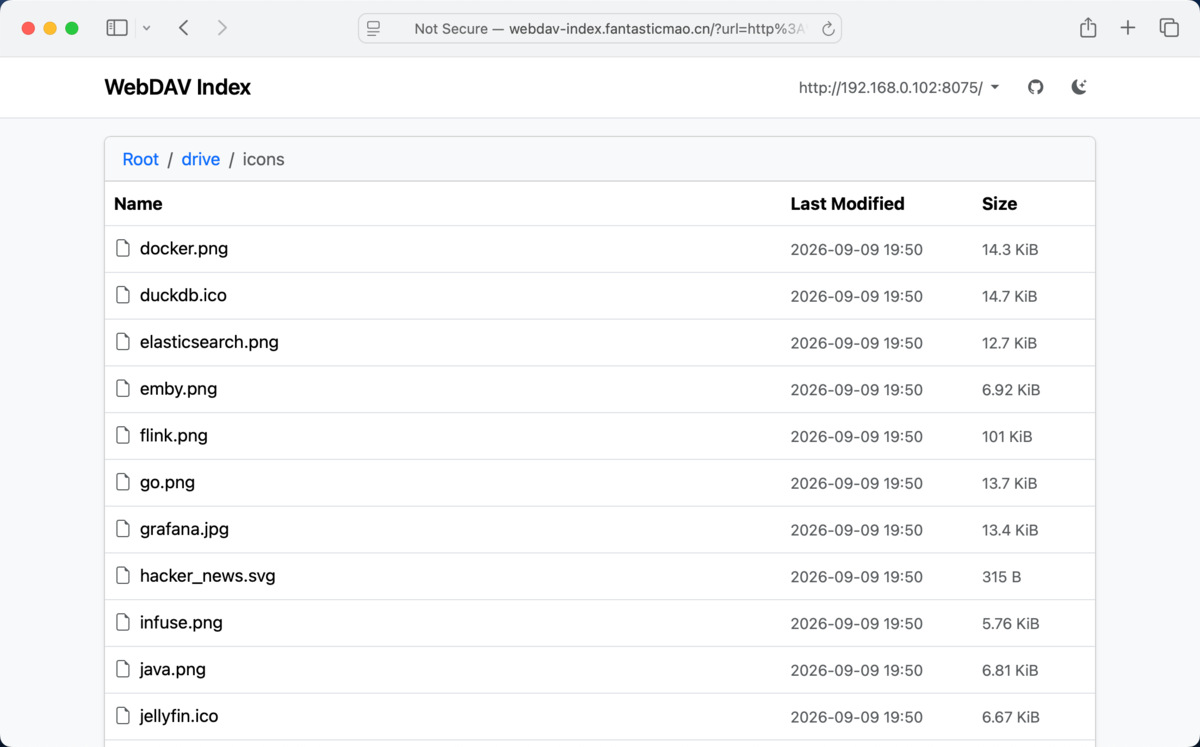
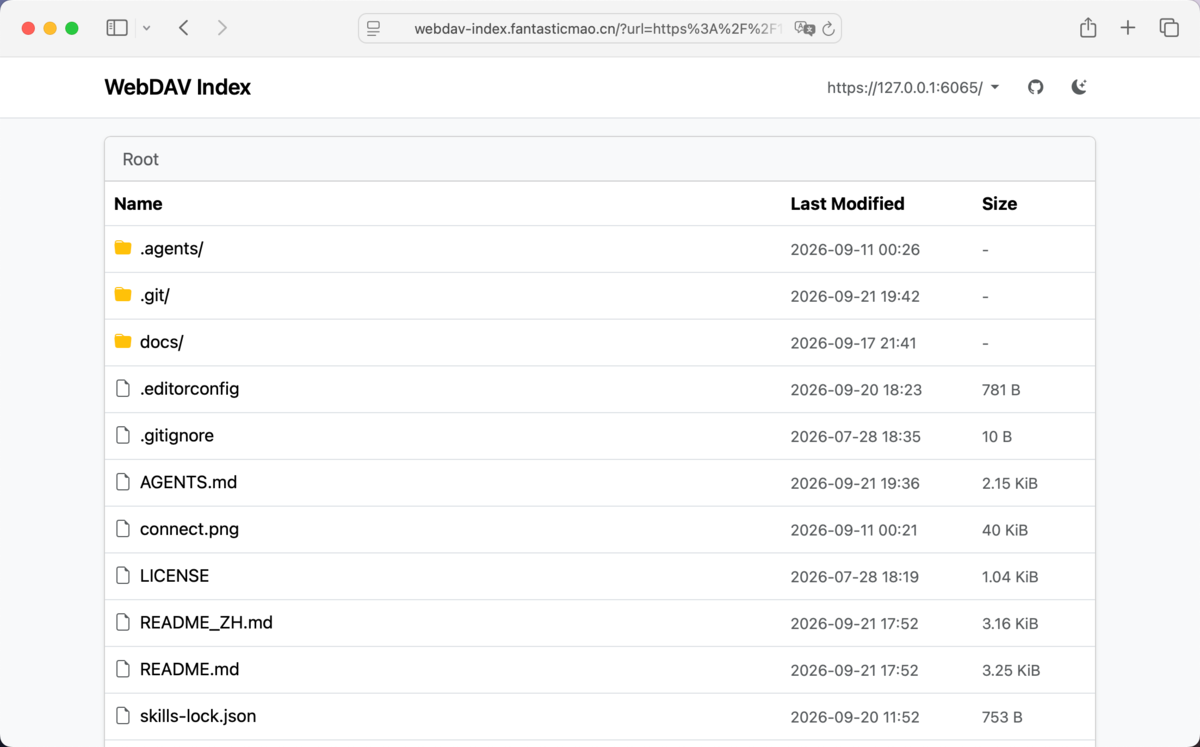
feat: Classify mixed-content and PNA connection failures
TypeError from listing is now tagged MIXED, PNA, or CORS so the
UI and FAQ can name the blocking browser policy.

diff --git a/docs/js/webdav.js b/docs/js/webdav.js
@@ -1,4 +1,5 @@
 import { createClient } from "https://cdn.jsdelivr.net/npm/webdav@5.10.0/dist/web/index.js";
+import { isMixedContentRequest, isPrivateNetworkAccess } from "./config.js";
 
 function normalizeCredentials(credentials) {
   return {
@@ -59,7 +60,7 @@ export async function listDirectory(baseUrl, relativePath, credentials) {
     // server that omits `getcontentlength` (both surface as `size: 0`).
     result = await client.getDirectoryContents(currentPath, { details: true });
   } catch (err) {
-    throw toAppError(err, isAnonymous(creds));
+    throw toAppError(err, isAnonymous(creds), baseUrl);
   }
 
   return result.data
@@ -104,16 +105,14 @@ function compareEntries(a, b) {
 /**
  * Translate client errors into the `code`-tagged errors the app branches on. The client
  * throws `Error` with `status` for HTTP failures, and lets `fetch` rejections
- * (network / CORS) through as `TypeError`.
+ * (network / CORS / mixed content / PNA) through as `TypeError`.
  */
-function toAppError(err, anonymous) {
+function toAppError(err, anonymous, baseUrl) {
   const status = err?.status;
 
-  if (status === 401 || status === 403) {
+  if (status === 401) {
     const error = new Error(
-      anonymous
-        ? "This server requires a username and password."
-        : "Incorrect username or password.",
+      anonymous ? "Auth: username and password required." : "Auth: incorrect username or password.",
     );
     error.code = "AUTH";
     error.status = status;
@@ -130,26 +129,47 @@ function toAppError(err, anonymous) {
   }
 
   if (err?.name === "TypeError") {
+    // Mixed content first: HTTPS page + HTTP WebDAV, even when the host is also private.
+    if (isMixedContentRequest(baseUrl)) {
+      const error = new Error(
+        `Mixed-Content: HTTPS origin sent an HTTP request. ` +
+          `Use ${window.location.href.replace(/^https:/, "http:")}, ` +
+          "or allow Insecure content, or serve WebDAV over HTTPS.",
+      );
+      error.code = "MIXED";
+      error.cause = err;
+      return error;
+    }
+    if (isPrivateNetworkAccess(baseUrl)) {
+      const error = new Error(
+        "Private-Network-Access: public origin reached a private address. " +
+          "Return Access-Control-Allow-Private-Network.",
+      );
+      error.code = "PNA";
+      error.cause = err;
+      return error;
+    }
     const error = new Error(
-      "Unable to reach the WebDAV server. If the URL is correct, this is often a CORS issue — see the FAQ in the project README.",
+      "CORS: cross-origin PROPFIND blocked. Allow OPTIONS and PROPFIND, " +
+        "match Access-Control-Allow-Origin, and include Depth " +
+        "(Authorization when credentials are sent).",
     );
     error.code = "NETWORK";
     error.cause = err;
     return error;
   }
 
-  const error = new Error("The WebDAV server responded, but the listing could not be read.");
+  const error = new Error("Parse: directory listing could not be read.");
   error.code = "PARSE";
   error.cause = err;
   return error;
 }
 
 function httpErrorMessage(status) {
-  if (status === 404) return "This path was not found on the WebDAV server.";
-  if (status === 405) {
-    return "The server rejected PROPFIND (HTTP 405). It may not be a WebDAV endpoint.";
-  }
-  return `The WebDAV server returned HTTP ${status}.`;
+  if (status === 403) return "HTTP 403: access denied.";
+  if (status === 404) return "HTTP 404: path not found.";
+  if (status === 405) return "HTTP 405: PROPFIND rejected; not a WebDAV endpoint.";
+  return `HTTP ${status}: unexpected response.`;
 }
 
 /**

diff --git a/docs/js/config.js b/docs/js/config.js
@@ -88,3 +88,36 @@ export function setPath(path) {
     window.history.pushState(null, "", href);
   }
 }
+
+export function isMixedContentRequest(baseUrl) {
+  if (window.location.protocol !== "https:") return false;
+  try {
+    return new URL(baseUrl).protocol === "http:";
+  } catch {
+    return false;
+  }
+}
+
+export function isPrivateNetworkAccess(baseUrl) {
+  if (isPrivateOrLocalHostname(window.location.hostname)) return false;
+  try {
+    return isPrivateOrLocalHostname(new URL(baseUrl).hostname);
+  } catch {
+    return false;
+  }
+}
+
+function isPrivateOrLocalHostname(hostname) {
+  const host = hostname.replace(/^\[|\]$/g, "").toLowerCase();
+  if (host === "localhost" || host.endsWith(".localhost") || host.endsWith(".local")) {
+    return true;
+  }
+  if (/^127\.\d{1,3}\.\d{1,3}\.\d{1,3}$/.test(host)) return true;
+  if (/^10\.\d{1,3}\.\d{1,3}\.\d{1,3}$/.test(host)) return true;
+  if (/^192\.168\.\d{1,3}\.\d{1,3}$/.test(host)) return true;
+  if (/^172\.(1[6-9]|2\d|3[0-1])\.\d{1,3}\.\d{1,3}$/.test(host)) return true;
+  if (host === "::1") return true;
+  // IPv6 ULA fc00::/7 and link-local fe80::/10.
+  if (/^f[cd][0-9a-f]{2}:/.test(host) || /^fe[89ab][0-9a-f]:/.test(host)) return true;
+  return false;
+}

diff --git a/README_ZH.md b/README_ZH.md
@@ -31,9 +31,6 @@ WebDAV-Index 在首次访问时会弹出连接表单。填写 WebDAV 服务的 U
 
 ![connect.png](connect.png)
 
-> [!IMPORTANT]
-> WebDAV-Index 运行在浏览器中，因此 WebDAV 服务端必须允许跨域请求：放行 `OPTIONS`、`PROPFIND`、`GET` 方法，以及 `Authorization`、`Depth` 请求头。否则即使 URL 完全正确，连接也无法建立，详见下文的常见问题。
-
 ## 实现原理
 
 WebDAV-Index 基于以下依赖构建，它们均以原生 ES 模块的形式从 CDN 加载：
@@ -45,17 +42,17 @@ WebDAV-Index 基于以下依赖构建，它们均以原生 ES 模块的形式从
 
 ## 常见问题
 
-### 同一个 URL 在别的客户端能用，这里 Connect 却失败，为什么？
+### 为什么同一个 URL 在别的客户端能用，这里 Connect 却失败？
 
-WebDAV-Index 运行在浏览器中，列出目录是一次跨域 `PROPFIND` 请求，若服务端未明确放行，浏览器会直接拦截该请求。Finder、rclone、curl 不是浏览器，因此不受 CORS 限制。
+WebDAV-Index 使用跨域 `PROPFIND` 列出目录，但该请求已被 CORS 策略阻止。需要让 WebDAV 服务端放行 `OPTIONS` 与 `PROPFIND` 请求方法，使 `Access-Control-Allow-Origin` 匹配当前源，并在 `Access-Control-Allow-Headers` 中包含 `Depth`（有凭证时再加 `Authorization`）。
 
-被拦截的请求只会以不透明的 `TypeError` 失败，因此 WebDAV-Index 只能给出一条简短的网络错误提示，具体原因需要在浏览器的开发者工具中查看：
+### 为什么 `http://` 的 WebDAV 地址会被拒绝？
 
-1. 在 **Console** 中查找 `blocked by CORS policy` 日志。
-2. 在 **Network** 中检查 `OPTIONS` 预检及随后的 `PROPFIND` 请求。常见原因是响应缺少 `Access-Control-Allow-Origin`，或所用的方法、请求头未包含在 `Access-Control-Allow-Methods` / `Access-Control-Allow-Headers` 中。
+根据 Mixed-Content 策略，来自 `https://` 源的 `http://` 请求将被阻止。可以使用 `http://` 访问本站，或在网站设置中允许不安全内容，或使用 `https://` 提供 WebDAV 服务。
 
-> [!TIP]
-> WebDAV-Index 通过 HTTPS 提供服务，因此以 `http://` 开头的 WebDAV 地址会因混合内容策略被浏览器拦截。
+### 为什么家用 NAS / 局域网地址从线上站点连不上？
+
+根据 Private-Network-Access 策略，来自公网源到私有地址的请求将被阻止。需要让 WebDAV 服务端返回 `Access-Control-Allow-Private-Network` 响应头。
 
 ## 许可证
 

diff --git a/README.md b/README.md
@@ -31,9 +31,6 @@ WebDAV-Index opens a connection form on first visit. Enter the URL of the WebDAV
 
 ![connect.png](connect.png)
 
-> [!IMPORTANT]
-> WebDAV-Index runs in the browser, so the WebDAV server must allow cross-origin requests: the `OPTIONS`, `PROPFIND` and `GET` methods, plus the `Authorization` and `Depth` request headers. Without them the connection cannot be established, however correct the URL is; see the FAQ below.
-
 ## How it works
 
 WebDAV-Index is built on the following dependencies, all loaded from a CDN as native ES modules:
@@ -45,17 +42,17 @@ WebDAV-Index is built on the following dependencies, all loaded from a CDN as na
 
 ## FAQ
 
-### Connect fails, but the same URL works in another client. Why?
+### Why does Connect fail when the same URL works in another client?
 
-WebDAV-Index runs in the browser, so listing a directory is a cross-origin `PROPFIND` request, which the browser blocks unless the server explicitly allows it. Finder, rclone and curl are not browsers and are therefore not subject to CORS.
+WebDAV-Index lists directories with a cross-origin `PROPFIND` request, which is blocked by CORS policy. Allow `OPTIONS` and `PROPFIND` request methods on the WebDAV server, match `Access-Control-Allow-Origin` to this origin, and include `Depth` in `Access-Control-Allow-Headers` (`Authorization` when credentials are sent).
 
-A blocked request fails as an opaque `TypeError`, so WebDAV-Index can only report a short network error; the specific cause has to be read from the browser's developer tools:
+### Why is an `http://` WebDAV URL rejected?
 
-1. In **Console**, look for a `blocked by CORS policy` message.
-2. In **Network**, inspect the `OPTIONS` preflight and the `PROPFIND` that follows. Common causes are a response without `Access-Control-Allow-Origin`, or a method or header missing from `Access-Control-Allow-Methods` / `Access-Control-Allow-Headers`.
+An `http://` request from an `https://` origin is blocked by Mixed-Content policy. Use this site over `http://`, or allow Insecure content in site settings, or serve WebDAV over `https://`.
 
-> [!TIP]
-> WebDAV-Index is served over HTTPS, so a WebDAV URL beginning with `http://` is blocked by the browser's mixed content policy.
+### Why does a home NAS or LAN URL fail from the live site?
+
+A request from a public origin to a private address is blocked by Private-Network-Access policy. Return the `Access-Control-Allow-Private-Network` response header from the WebDAV server.
 
 ## License
 

diff --git a/AGENTS.md b/AGENTS.md
@@ -7,7 +7,6 @@ A **local-first, static, zero-build** WebDAV client: the browser lists a remote 
 - **No backend, no build, no `package.json`.** Dependencies load from jsDelivr as native ES modules.
 - **Read-only browsing.** Listing and opening files only; no uploads, edits, deletes or other writes.
 - **Optional HTTP Basic auth.** Credentials live in `localStorage` so known hosts switch without re-entry.
-- **CORS is required.** The server must allow `OPTIONS`, `PROPFIND`, `GET`, plus `Authorization` and `Depth`.
 
 ## Project layout
 
@@ -37,11 +36,9 @@ python3 -m http.server 8000 --directory docs
 
 ## Conventions
 
-- Follow `.editorconfig`: UTF-8, LF, 100 columns, trailing newline; 2-space JS/CSS, 4-space HTML.
 - **English only** for code, comments, UI copy and commits. `README_ZH.md` is the only Chinese file.
 - Comments explain _why_ (browser quirks, server compatibility, CORS), not what the code already says.
 - Prefer Bootstrap 5 utilities; add to `app.css` only when needed. Icons stay as inline SVG in `index.html`.
-- User-facing changes — features, params, CORS, FAQ — need updates to both `README.md` and `README_ZH.md`.
 
 ## Security
 
